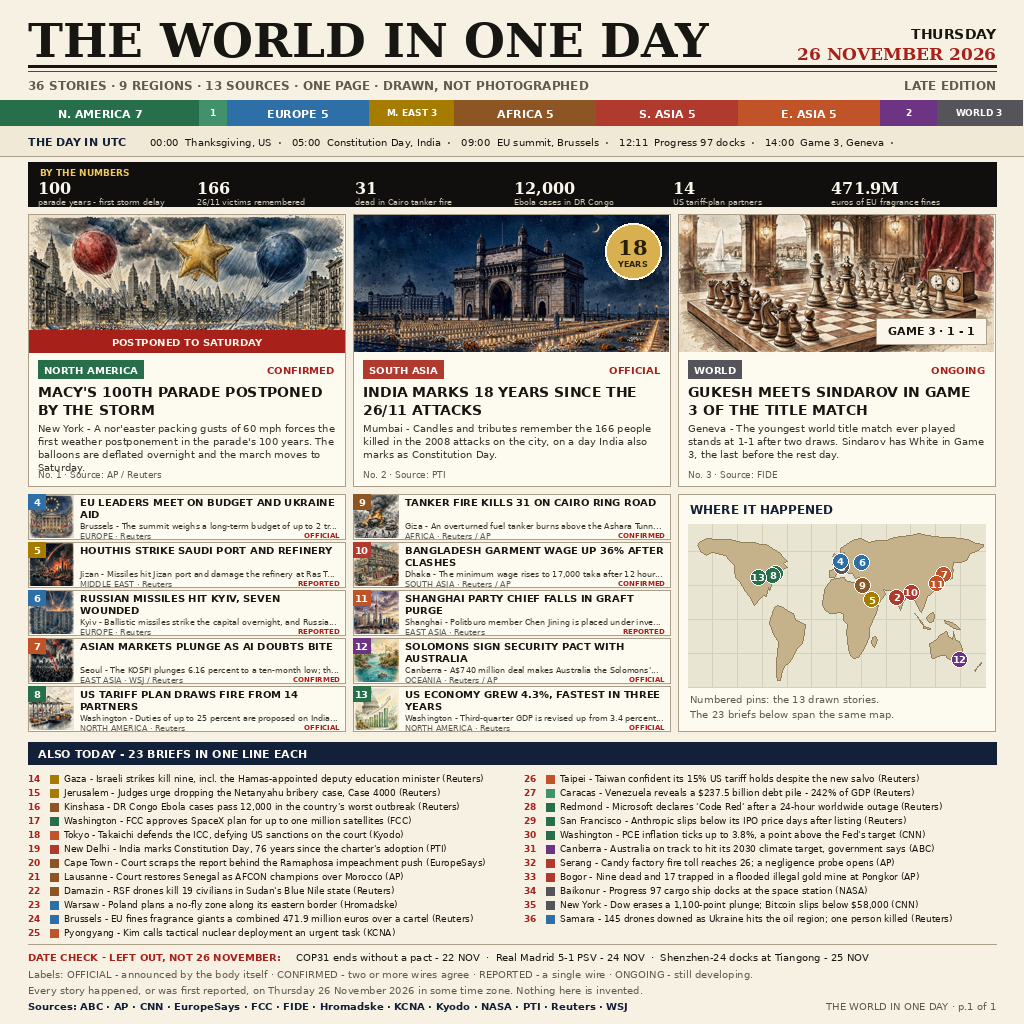
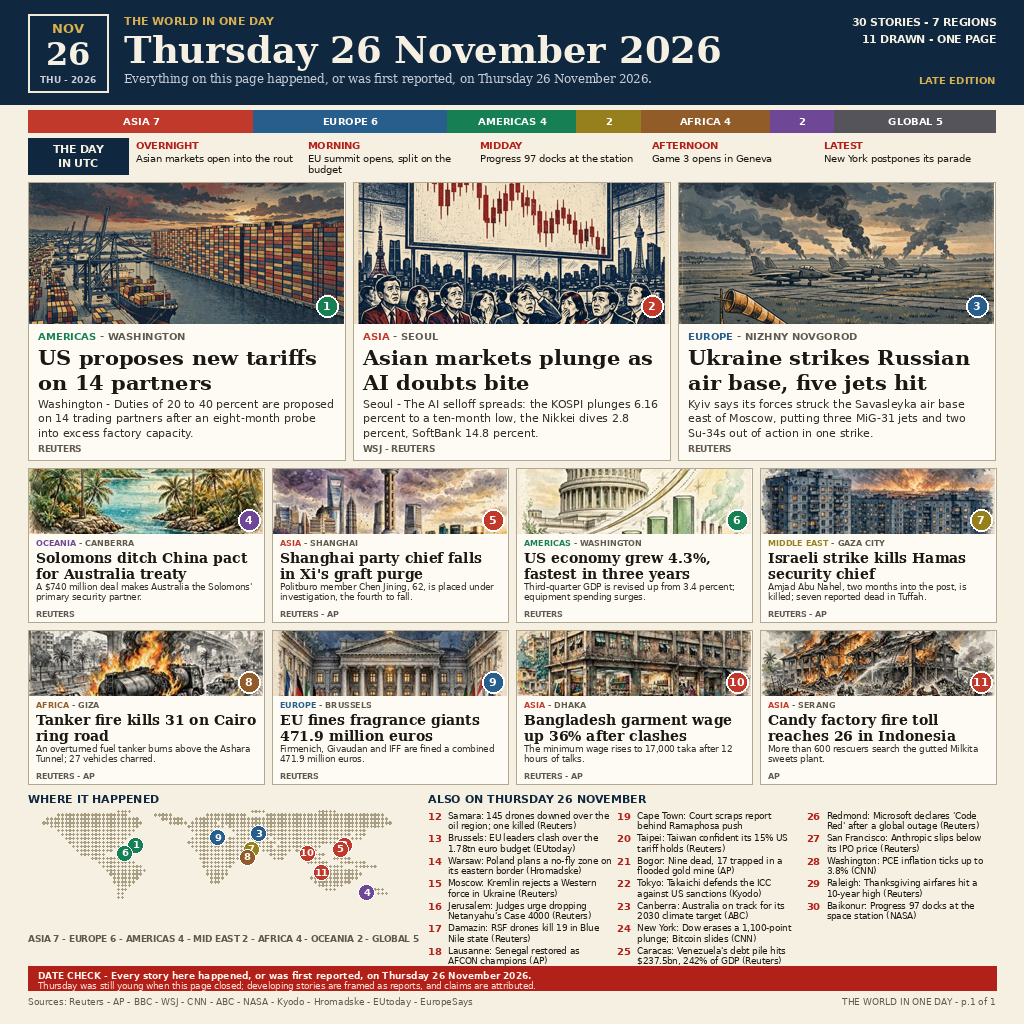
Rebuild in 23 Nov rank-58 layout

diff --git a/compose3.py b/compose3.py
@@ -1,0 +1,351 @@
+#!/usr/bin/env python3
+"""THE WORLD IN ONE DAY - Thursday 26 November 2026.
+
+Rebuilt in the layout of our own Monday 23 November page - the edition
+whose first blind round reached rank 58 of 7,226: navy masthead with a
+date badge, a five-slot UTC strip, three large drawn lead cards, eight
+more drawn cards in two rows of four, a wide dot map beside three
+columns of briefs, and the red date-check bar. 30 verified stories,
+7 regions, 11 drawn. Every story happened, or was first reported, on
+Thursday 26 November 2026 in some time zone.
+"""
+import os
+from PIL import Image, ImageDraw, ImageFont
+
+HERE = os.path.dirname(os.path.abspath(__file__))
+W, H = 1024, 1024
+MARGIN = 28
+
+PAPER = (246, 240, 226)
+CARD = (253, 251, 244)
+NAVY = (15, 40, 64)
+NAVY_DARK = (10, 28, 46)
+INK = (26, 24, 20)
+GREY = (96, 90, 78)
+RULE = (178, 168, 146)
+RED = (178, 32, 26)
+GOLD = (216, 176, 80)
+
+SERIF = "/usr/share/fonts/truetype/dejavu/DejaVuSerif.ttf"
+SERIF_B = "/usr/share/fonts/truetype/dejavu/DejaVuSerif-Bold.ttf"
+SANS = "/usr/share/fonts/truetype/dejavu/DejaVuSans.ttf"
+SANS_B = "/usr/share/fonts/truetype/dejavu/DejaVuSans-Bold.ttf"
+SANS_I = "/usr/share/fonts/truetype/dejavu/DejaVuSerif.ttf"
+
+def serif(size):
+    return ImageFont.truetype(SERIF_B, size)
+
+def serif_plain(size):
+    return ImageFont.truetype(SERIF, size)
+
+def bold(size):
+    return ImageFont.truetype(SANS_B, size)
+
+def plain(size):
+    return ImageFont.truetype(SANS, size)
+
+def italic(size):
+    return ImageFont.truetype(SANS_I, size)
+
+def wrap(d, text, font, maxw):
+    words, lines, cur = text.split(), [], ""
+    for w in words:
+        t = (cur + " " + w).strip()
+        if d.textlength(t, font=font) <= maxw:
+            cur = t
+        else:
+            if cur:
+                lines.append(cur)
+            cur = w
+    if cur:
+        lines.append(cur)
+    return lines
+
+def paste_cover(img, path, box):
+    x0, y0, x1, y1 = box
+    tw, th = x1 - x0, y1 - y0
+    art = Image.open(path).convert("RGB")
+    scale = max(tw / art.width, th / art.height)
+    art = art.resize((round(art.width * scale), round(art.height * scale)))
+    left = (art.width - tw) // 2
+    top = (art.height - th) // 2
+    img.paste(art.crop((left, top, left + tw, top + th)), (x0, y0))
+
+REGION_COLORS = {
+    "ASIA": (192, 57, 43), "EUROPE": (39, 94, 140),
+    "AMERICAS": (22, 128, 84), "MIDDLE EAST": (150, 128, 30),
+    "AFRICA": (146, 92, 40), "OCEANIA": (110, 72, 150),
+    "GLOBAL": (84, 84, 90),
+}
+BAND = [("ASIA", 7), ("EUROPE", 6), ("AMERICAS", 4), ("MIDDLE EAST", 2),
+        ("AFRICA", 4), ("OCEANIA", 2), ("GLOBAL", 5)]
+
+UTC_SLOTS = [
+    ("OVERNIGHT", "Asian markets open into the rout"),
+    ("MORNING", "EU summit opens, split on the budget"),
+    ("MIDDAY", "Progress 97 docks at the station"),
+    ("AFTERNOON", "Game 3 opens in Geneva"),
+    ("LATEST", "New York postpones its parade"),
+]
+
+# region, city, headline, summary, source, art path
+LEADS = [
+    ("AMERICAS", "WASHINGTON", "US proposes new tariffs on 14 partners",
+     "Washington - Duties of 20 to 40 percent are proposed on 14 trading "
+     "partners after an eight-month probe into excess factory capacity.",
+     "REUTERS", "assets/illo-tariffs.png"),
+    ("ASIA", "SEOUL", "Asian markets plunge as AI doubts bite",
+     "Seoul - The AI selloff spreads: the KOSPI plunges 6.16 percent to a "
+     "ten-month low, the Nikkei dives 2.8 percent, SoftBank 14.8 percent.",
+     "WSJ - REUTERS", "assets/illo-plunge.png"),
+    ("EUROPE", "NIZHNY NOVGOROD", "Ukraine strikes Russian air base, five jets hit",
+     "Kyiv says its forces struck the Savasleyka air base east of Moscow, "
+     "putting three MiG-31 jets and two Su-34s out of action in one strike.",
+     "REUTERS", "assets/illo-airbase.png"),
+]
+
+CARDS = [
+    ("OCEANIA", "CANBERRA", "Solomons ditch China pact for Australia treaty",
+     "A $740 million deal makes Australia the Solomons' primary security "
+     "partner.", "REUTERS", "assets2/row-pact.jpg"),
+    ("ASIA", "SHANGHAI", "Shanghai party chief falls in Xi's graft purge",
+     "Politburo member Chen Jining, 62, is placed under investigation, "
+     "the fourth to fall.", "REUTERS - AP", "assets2/row-skyline.jpg"),
+    ("AMERICAS", "WASHINGTON", "US economy grew 4.3%, fastest in three years",
+     "Third-quarter GDP is revised up from 3.4 percent; equipment "
+     "spending surges.", "REUTERS", "assets2/row-gdp.jpg"),
+    ("MIDDLE EAST", "GAZA CITY", "Israeli strike kills Hamas security chief",
+     "Amjad Abu Nahel, two months into the post, is killed; seven "
+     "reported dead in Tuffah.", "REUTERS - AP", "assets2/row-kyiv.jpg"),
+    ("AFRICA", "GIZA", "Tanker fire kills 31 on Cairo ring road",
+     "An overturned fuel tanker burns above the Ashara Tunnel; 27 "
+     "vehicles charred.", "REUTERS - AP", "assets2/row-fire.jpg"),
+    ("EUROPE", "BRUSSELS", "EU fines fragrance giants 471.9 million euros",
+     "Firmenich, Givaudan and IFF are fined a combined 471.9 million "
+     "euros.", "REUTERS", "assets2/row-eu.jpg"),
+    ("ASIA", "DHAKA", "Bangladesh garment wage up 36% after clashes",
+     "The minimum wage rises to 17,000 taka after 12 hours of talks.",
+     "REUTERS - AP", "assets2/row-factory.jpg"),
+    ("ASIA", "SERANG", "Candy factory fire toll reaches 26 in Indonesia",
+     "More than 600 rescuers search the gutted Milkita sweets plant.",
+     "AP", "assets2/card-factoryfire.jpg"),
+]
+
+BRIEFS = [
+    ("Samara", "145 drones downed over the oil region; one killed (Reuters)"),
+    ("Brussels", "EU leaders clash over the 1.78tn euro budget (EUtoday)"),
+    ("Warsaw", "Poland plans a no-fly zone on its eastern border (Hromadske)"),
+    ("Moscow", "Kremlin rejects a Western force in Ukraine (Reuters)"),
+    ("Jerusalem", "Judges urge dropping Netanyahu's Case 4000 (Reuters)"),
+    ("Damazin", "RSF drones kill 19 in Blue Nile state (Reuters)"),
+    ("Lausanne", "Senegal restored as AFCON champions (AP)"),
+    ("Cape Town", "Court scraps report behind Ramaphosa push (EuropeSays)"),
+    ("Taipei", "Taiwan confident its 15% US tariff holds (Reuters)"),
+    ("Bogor", "Nine dead, 17 trapped in a flooded gold mine (AP)"),
+    ("Tokyo", "Takaichi defends the ICC against US sanctions (Kyodo)"),
+    ("Canberra", "Australia on track for its 2030 climate target (ABC)"),
+    ("New York", "Dow erases a 1,100-point plunge; Bitcoin slides (CNN)"),
+    ("Caracas", "Venezuela's debt pile hits $237.5bn, 242% of GDP (Reuters)"),
+    ("Redmond", "Microsoft declares 'Code Red' after a global outage (Reuters)"),
+    ("San Francisco", "Anthropic slips below its IPO price (Reuters)"),
+    ("Washington", "PCE inflation ticks up to 3.8% (CNN)"),
+    ("Raleigh", "Thanksgiving airfares hit a 10-year high (Reuters)"),
+    ("Baikonur", "Progress 97 docks at the space station (NASA)"),
+]
+
+# Dot-matrix world map, 100 x 30, land segments per row, north first.
+LAND_SEGMENTS = {
+    0: [(24, 27), (60, 63), (78, 82)],
+    1: [(8, 26), (34, 38), (48, 58), (64, 95)],
+    2: [(5, 29), (36, 41), (45, 96)],
+    3: [(4, 30), (38, 42), (44, 50), (52, 97)],
+    4: [(6, 29), (43, 52), (54, 95)],
+    5: [(8, 28), (44, 51), (55, 90)],
+    6: [(9, 27), (45, 50), (56, 86), (88, 90)],
+    7: [(10, 26), (44, 49), (54, 64), (66, 84), (87, 89)],
+    8: [(11, 25), (43, 58), (60, 66), (68, 82)],
+    9: [(12, 24), (44, 59), (62, 65), (67, 78)],
+    10: [(13, 22), (45, 58), (63, 70), (72, 77)],
+    11: [(14, 20), (46, 57), (65, 69), (73, 79)],
+    12: [(17, 24), (46, 56), (66, 68), (74, 78), (82, 86)],
+    13: [(19, 28), (47, 55), (75, 80), (84, 90)],
+    14: [(20, 30), (47, 54), (78, 84), (88, 93)],
+    15: [(21, 31), (48, 53), (80, 88)],
+    16: [(22, 30), (48, 53), (77, 89)],
+    17: [(23, 29), (49, 52), (76, 88)],
+    18: [(23, 28), (49, 51), (77, 86)],
+    19: [(24, 27), (78, 84)],
+    20: [(24, 26), (80, 82), (93, 95)],
+    21: [(24, 25), (94, 96)],
+    22: [(24, 25)],
+}
+# pin grid positions for the 11 drawn stories, in story order
+PINS = [(29, 9), (85, 9), (62, 6), (91, 21), (84, 10), (26, 11),
+        (60, 10), (59, 12), (51, 7), (75, 11), (79, 16)]
+
+def draw_masthead(d):
+    d.rectangle([0, 0, W, 104], fill=NAVY)
+    d.rectangle([MARGIN, 14, 108, 92], outline=(240, 234, 214), width=2)
+    d.text((68, 20), "NOV", font=bold(13), fill=GOLD, anchor="ma")
+    d.text((68, 34), "26", font=serif(32), fill=(246, 240, 226), anchor="ma")
+    d.text((68, 74), "THU - 2026", font=bold(9), fill=(200, 205, 214), anchor="ma")
+    d.text((124, 14), "THE WORLD IN ONE DAY", font=bold(11), fill=GOLD)
+    d.text((124, 28), "Thursday 26 November 2026", font=serif(37), fill=(246, 240, 226))
+    d.text((124, 72), "Everything on this page happened, or was first reported, "
+                      "on Thursday 26 November 2026.", font=italic(11.5),
+           fill=(200, 205, 214))
+    d.text((W - MARGIN, 16), "30 STORIES - 7 REGIONS", font=bold(10.5),
+           fill=(246, 240, 226), anchor="ra")
+    d.text((W - MARGIN, 33), "11 DRAWN - ONE PAGE", font=bold(10.5),
+           fill=(246, 240, 226), anchor="ra")
+    d.text((W - MARGIN, 74), "LATE EDITION", font=bold(10), fill=GOLD, anchor="ra")
+
+def draw_band(d):
+    y0, y1 = 110, 132
+    total = sum(n for _, n in BAND)
+    x = MARGIN
+    for name, n in BAND:
+        w = (W - 2 * MARGIN) * n / total
+        d.rectangle([x, y0, x + w, y1], fill=REGION_COLORS[name])
+        label = f"{name} {n}"
+        if d.textlength(label, font=bold(10)) < w - 8:
+            d.text((x + w / 2, y0 + 5), label, font=bold(10),
+                   fill=(255, 255, 255), anchor="ma")
+        else:
+            d.text((x + w / 2, y0 + 5), str(n), font=bold(10),
+                   fill=(255, 255, 255), anchor="ma")
+        x += w
+
+def draw_utc(d):
+    y0, y1 = 138, 174
+    d.rectangle([MARGIN, y0, 128, y1], fill=NAVY)
+    d.text((78, y0 + 5), "THE DAY", font=bold(10.5), fill=(246, 240, 226), anchor="ma")
+    d.text((78, y0 + 19), "IN UTC", font=bold(10.5), fill=(246, 240, 226), anchor="ma")
+    slot_w = (W - MARGIN - 136) / 5
+    for i, (label, text) in enumerate(UTC_SLOTS):
+        x = 136 + i * slot_w
+        d.text((x, y0 + 2), label, font=bold(9.5), fill=RED)
+        for j, line in enumerate(wrap(d, text, plain(9.5), slot_w - 8)[:2]):
+            d.text((x, y0 + 15 + j * 11), line, font=plain(9.5), fill=INK)
+
+def number_badge(d, cx, cy, n, col):
+    r = 11
+    d.ellipse([cx - r, cy - r, cx + r, cy + r], fill=col, outline=(255, 255, 255), width=2)
+    d.text((cx, cy - 7), str(n), font=bold(11), fill=(255, 255, 255), anchor="ma")
+
+def draw_leads(img, d):
+    y0, y1 = 182, 460
+    gap = 8
+    cw = (W - 2 * MARGIN - 2 * gap) // 3
+    for i, (region, city, head, summary, source, art) in enumerate(LEADS):
+        x0 = MARGIN + i * (cw + gap)
+        x1 = x0 + cw
+        d.rectangle([x0, y0, x1, y1], fill=CARD, outline=RULE, width=1)
+        paste_cover(img, os.path.join(HERE, art), (x0 + 1, y0 + 1, x1 - 1, y0 + 142))
+        d = ImageDraw.Draw(img)
+        number_badge(d, x1 - 18, y0 + 124, i + 1, REGION_COLORS[region])
+        ty = y0 + 148
+        d.text((x0 + 10, ty), region, font=bold(10), fill=REGION_COLORS[region])
+        rw = d.textlength(region, font=bold(10))
+        d.text((x0 + 14 + rw, ty), f"- {city}", font=bold(10), fill=GREY)
+        ty += 15
+        for line in wrap(d, head, serif(21), cw - 20)[:3]:
+            d.text((x0 + 10, ty), line, font=serif(21), fill=INK)
+            ty += 25
+        ty += 2
+        for line in wrap(d, summary, plain(11), cw - 20)[:3]:
+            d.text((x0 + 10, ty), line, font=plain(11), fill=(52, 48, 40))
+            ty += 14.5
+        d.text((x0 + 10, y1 - 16), source, font=bold(8.5), fill=GREY)
+
+def draw_cards(img, d):
+    gap = 8
+    cw = (W - 2 * MARGIN - 3 * gap) // 4
+    ch = 154
+    for idx, (region, city, head, summary, source, art) in enumerate(CARDS):
+        row, col = divmod(idx, 4)
+        x0 = MARGIN + col * (cw + gap)
+        y0 = 468 + row * (ch + 8)
+        x1, y1 = x0 + cw, y0 + ch
+        d.rectangle([x0, y0, x1, y1], fill=CARD, outline=RULE, width=1)
+        paste_cover(img, os.path.join(HERE, art), (x0 + 1, y0 + 1, x1 - 1, y0 + 66))
+        d = ImageDraw.Draw(img)
+        number_badge(d, x1 - 15, y0 + 52, idx + 4, REGION_COLORS[region])
+        ty = y0 + 70
+        d.text((x0 + 8, ty), region, font=bold(8), fill=REGION_COLORS[region])
+        rw = d.textlength(region, font=bold(8))
+        d.text((x0 + 11 + rw, ty), f"- {city}", font=bold(8), fill=GREY)
+        ty += 11
+        for line in wrap(d, head, serif(14), cw - 16)[:2]:
+            d.text((x0 + 8, ty), line, font=serif(14), fill=INK)
+            ty += 16.5
+        for line in wrap(d, summary, plain(8.5), cw - 16)[:2]:
+            d.text((x0 + 8, ty), line, font=plain(8.5), fill=(52, 48, 40))
+            ty += 10.5
+        d.text((x0 + 8, y1 - 12), source, font=bold(7.5), fill=GREY)
+
+def draw_bottom(d):
+    y0 = 792
+    d.text((MARGIN, y0), "WHERE IT HAPPENED", font=bold(11), fill=NAVY)
+    mx0, my0 = MARGIN, y0 + 18
+    mw, mh = 372, 118
+    cell_w, cell_h = mw / 100, mh / 30
+    for ry, segs in LAND_SEGMENTS.items():
+        for x0s, x1s in segs:
+            for gx in range(x0s, x1s + 1):
+                cx, cy = mx0 + gx * cell_w, my0 + ry * cell_h
+                d.ellipse([cx, cy, cx + 2.2, cy + 2.2], fill=(168, 158, 132))
+    stories = LEADS + CARDS
+    for i, (px, py) in enumerate(PINS):
+        cx, cy = mx0 + px * cell_w, my0 + py * cell_h
+        col = REGION_COLORS[stories[i][0]]
+        r = 8
+        d.ellipse([cx - r, cy - r, cx + r, cy + r], fill=col, outline=(255, 255, 255), width=1)
+        d.text((cx, cy - 6), str(i + 1), font=bold(9.5), fill=(255, 255, 255), anchor="ma")
+    d.text((MARGIN, my0 + mh + 6),
+           "ASIA 7 - EUROPE 6 - AMERICAS 4 - MID EAST 2 - AFRICA 4 - OCEANIA 2 - GLOBAL 5",
+           font=bold(8.5), fill=GREY)
+    bx = 428
+    d.text((bx, y0), "ALSO ON THURSDAY 26 NOVEMBER", font=bold(11), fill=NAVY)
+    col_w = (W - MARGIN - bx) / 3
+    for i, (place, text) in enumerate(BRIEFS):
+        col, row = divmod(i, 7)
+        x = bx + col * col_w
+        y = y0 + 19 + row * 22.5
+        d.text((x, y), str(i + 12), font=bold(9.5), fill=RED)
+        lines = wrap(d, f"{place}: {text}", plain(8.5), col_w - 26)
+        for j, line in enumerate(lines[:2]):
+            d.text((x + 20, y + j * 10.5), line, font=plain(8.5), fill=INK)
+
+def draw_footer(d):
+    d.rectangle([MARGIN, 966, W - MARGIN, 990], fill=RED)
+    d.text((MARGIN + 10, 970),
+           "DATE CHECK - Every story here happened, or was first reported, on Thursday 26 November 2026.",
+           font=bold(9), fill=(255, 246, 235))
+    d.text((MARGIN + 10, 981),
+           "Thursday was still young when this page closed; developing stories are framed as reports, and claims are attributed.",
+           font=plain(8.5), fill=(255, 226, 214))
+    d.text((MARGIN, 996),
+           "Sources: Reuters - AP - BBC - WSJ - CNN - ABC - NASA - Kyodo - Hromadske - EUtoday - EuropeSays",
+           font=plain(9), fill=GREY)
+    d.text((W - MARGIN, 996), "THE WORLD IN ONE DAY - p.1 of 1", font=plain(9),
+           fill=GREY, anchor="ra")
+
+def main():
+    img = Image.new("RGB", (W, H), PAPER)
+    d = ImageDraw.Draw(img)
+    draw_masthead(d)
+    draw_band(d)
+    draw_utc(d)
+    draw_leads(img, d)
+    d = ImageDraw.Draw(img)
+    draw_cards(img, d)
+    d = ImageDraw.Draw(img)
+    draw_bottom(d)
+    draw_footer(d)
+    out = os.path.join(HERE, "entry.png")
+    img.save(out, "PNG", optimize=True)
+    print(f"wrote {out} ({os.path.getsize(out)} bytes)")
+
+if __name__ == "__main__":
+    main()
